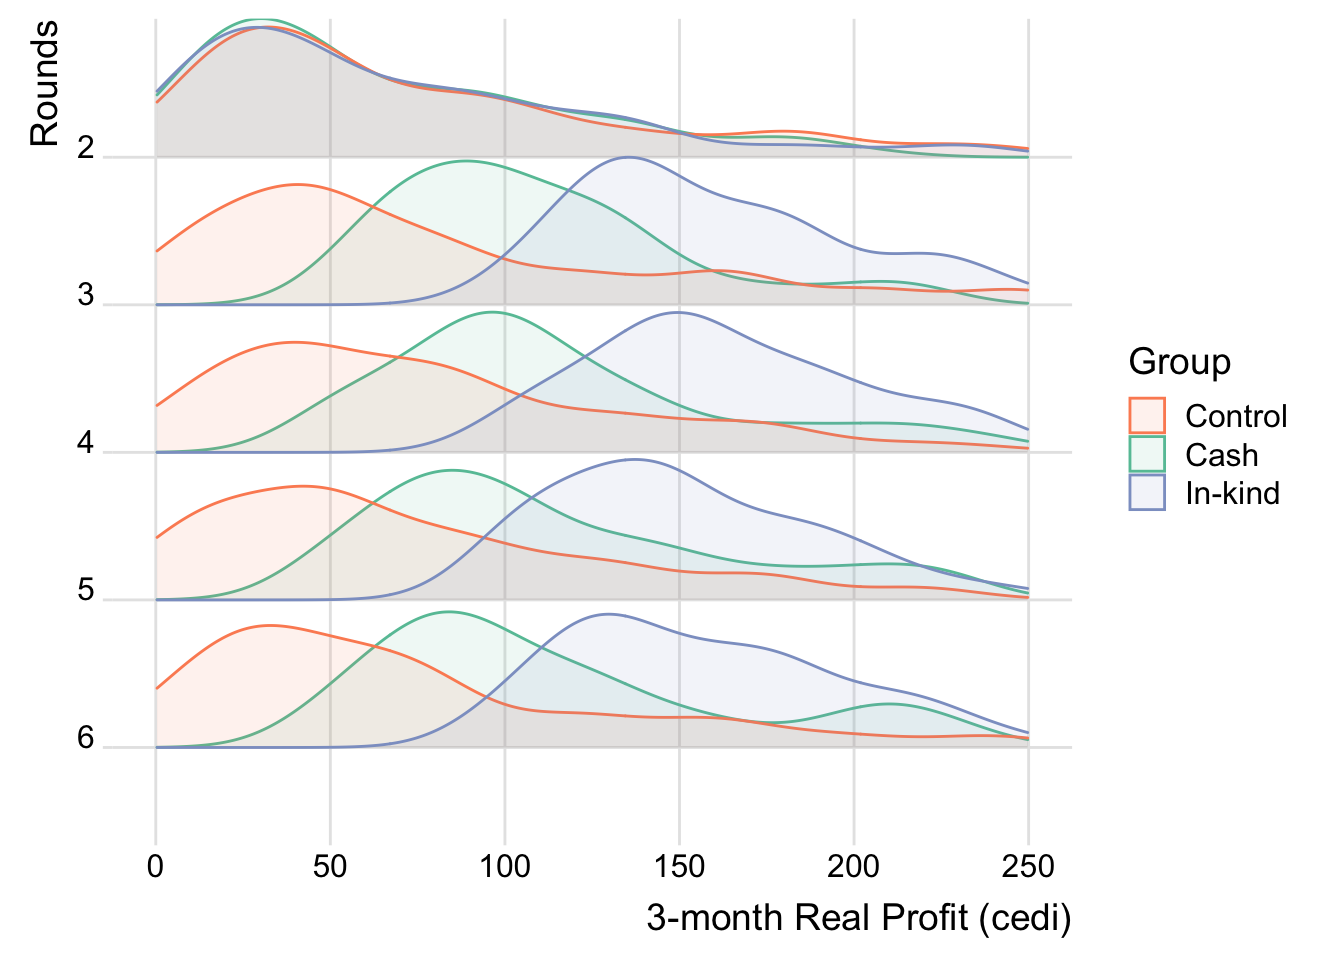
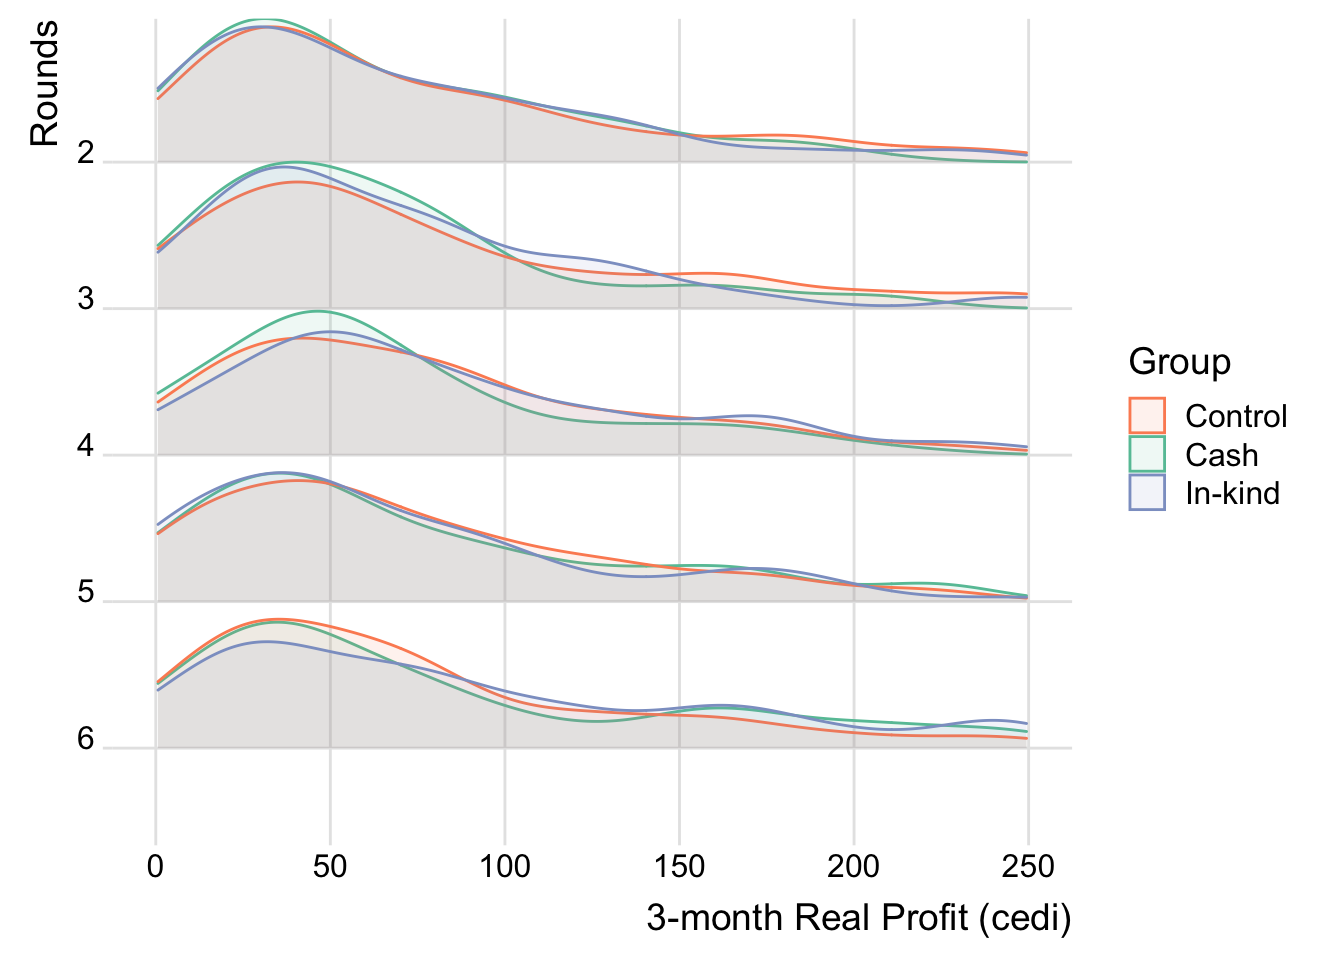
Cancelled to add a constant to treatment outcomes

diff --git a/docs/DensityRidgelineRounds.html b/docs/DensityRidgelineRounds.html
@@ -357,8 +357,6 @@ data &lt;- read_dta(&quot;https://github.com/worldbank/r-econ-visual-library/raw
 
 # Treatment group includes only those who received treatment 
 # between 2nd and 3rd waves, for simplicity.
-# Also, to emphasize the effectiveness, some numbers are added to the outcome 
-# for treatment groups.
 analysis_data &lt;- data %&gt;%
   filter(wave &gt;= 2) %&gt;%
   group_by(sheno) %&gt;%
@@ -370,9 +368,7 @@ analysis_data &lt;- data %&gt;%
   ungroup() %&gt;%
   mutate(
     treatment_group = ifelse(cashtreat == 1, &quot;Cash&quot;,
-                               ifelse(equiptreat == 1, &quot;In-kind&quot;, &quot;Control&quot;)),
-    realfinalprofit = ifelse(cashtreat == 1 &amp; wave &gt;= 3, realfinalprofit + 50,
-                               ifelse(equiptreat == 1 &amp; wave &gt;= 3, realfinalprofit + 100, realfinalprofit))
+                               ifelse(equiptreat == 1, &quot;In-kind&quot;, &quot;Control&quot;))
     )
 
 ggplot(analysis_data, aes(x = realfinalprofit, y = fct_rev(factor(wave)), 
@@ -384,7 +380,7 @@ ggplot(analysis_data, aes(x = realfinalprofit, y = fct_rev(factor(wave)),
   scale_color_brewer(palette = &quot;Set2&quot;, name = &quot;Group&quot;, breaks = c(&quot;Control&quot;, &quot;Cash&quot;, &quot;In-kind&quot;)) +
   scale_fill_brewer(palette = &quot;Set2&quot;, name = &quot;Group&quot;, breaks = c(&quot;Control&quot;, &quot;Cash&quot;, &quot;In-kind&quot;)) +
   xlim(c(0, 250))</code></pre>
-<pre><code>## Picking joint bandwidth of 15.8</code></pre>
+<pre><code>## Picking joint bandwidth of 18.3</code></pre>
 <p><img src="figure/DensityPlots/DensityRidgelineRounds-1.png" width="672" /></p>
 
 
